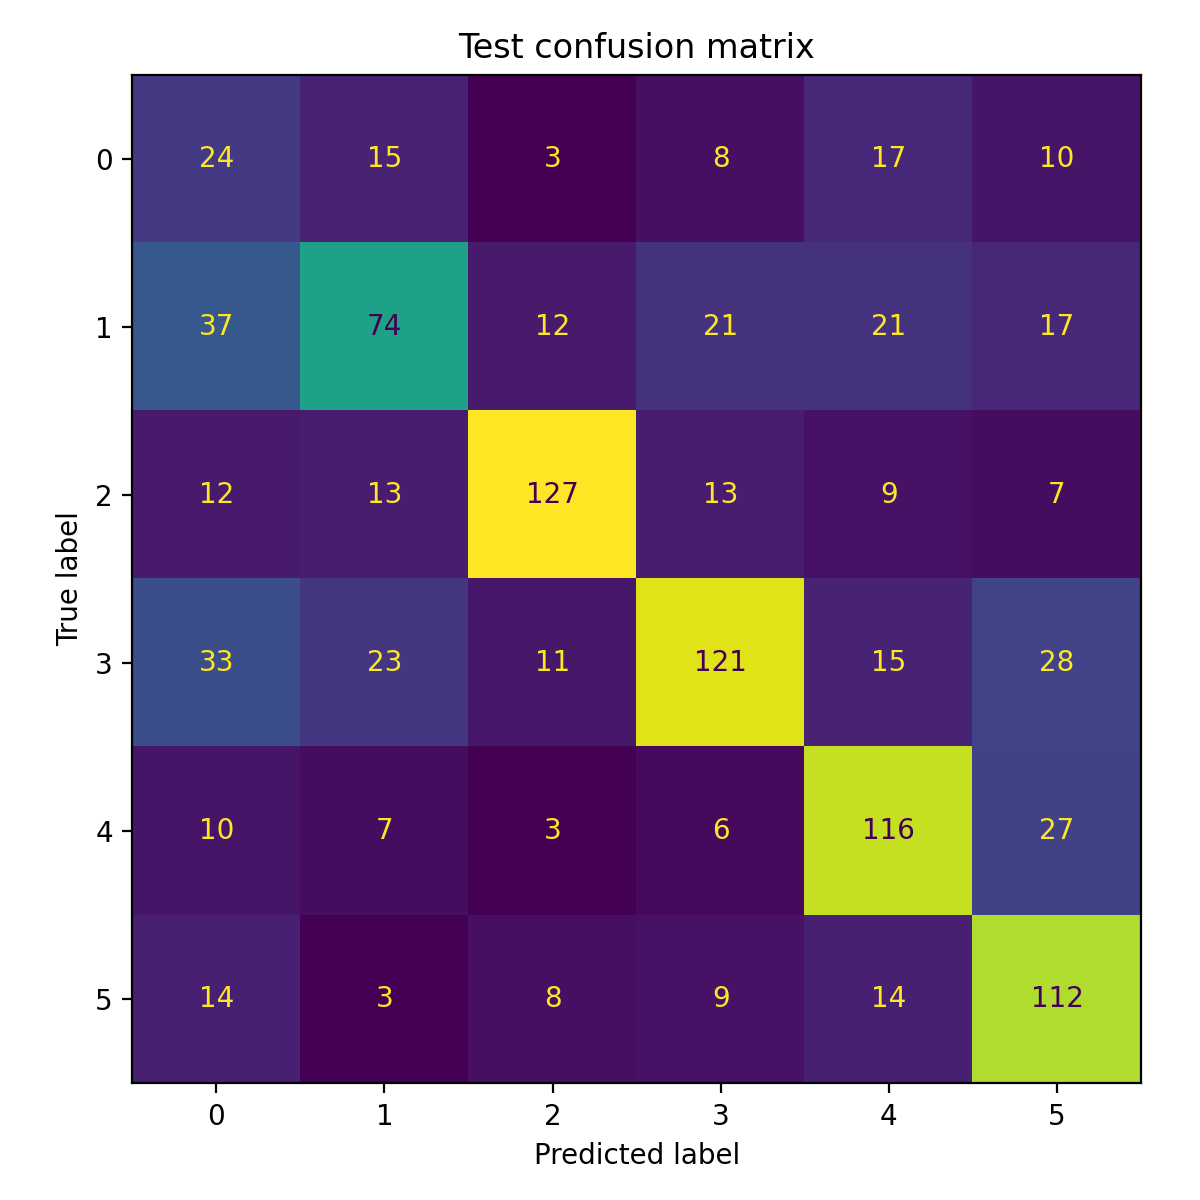
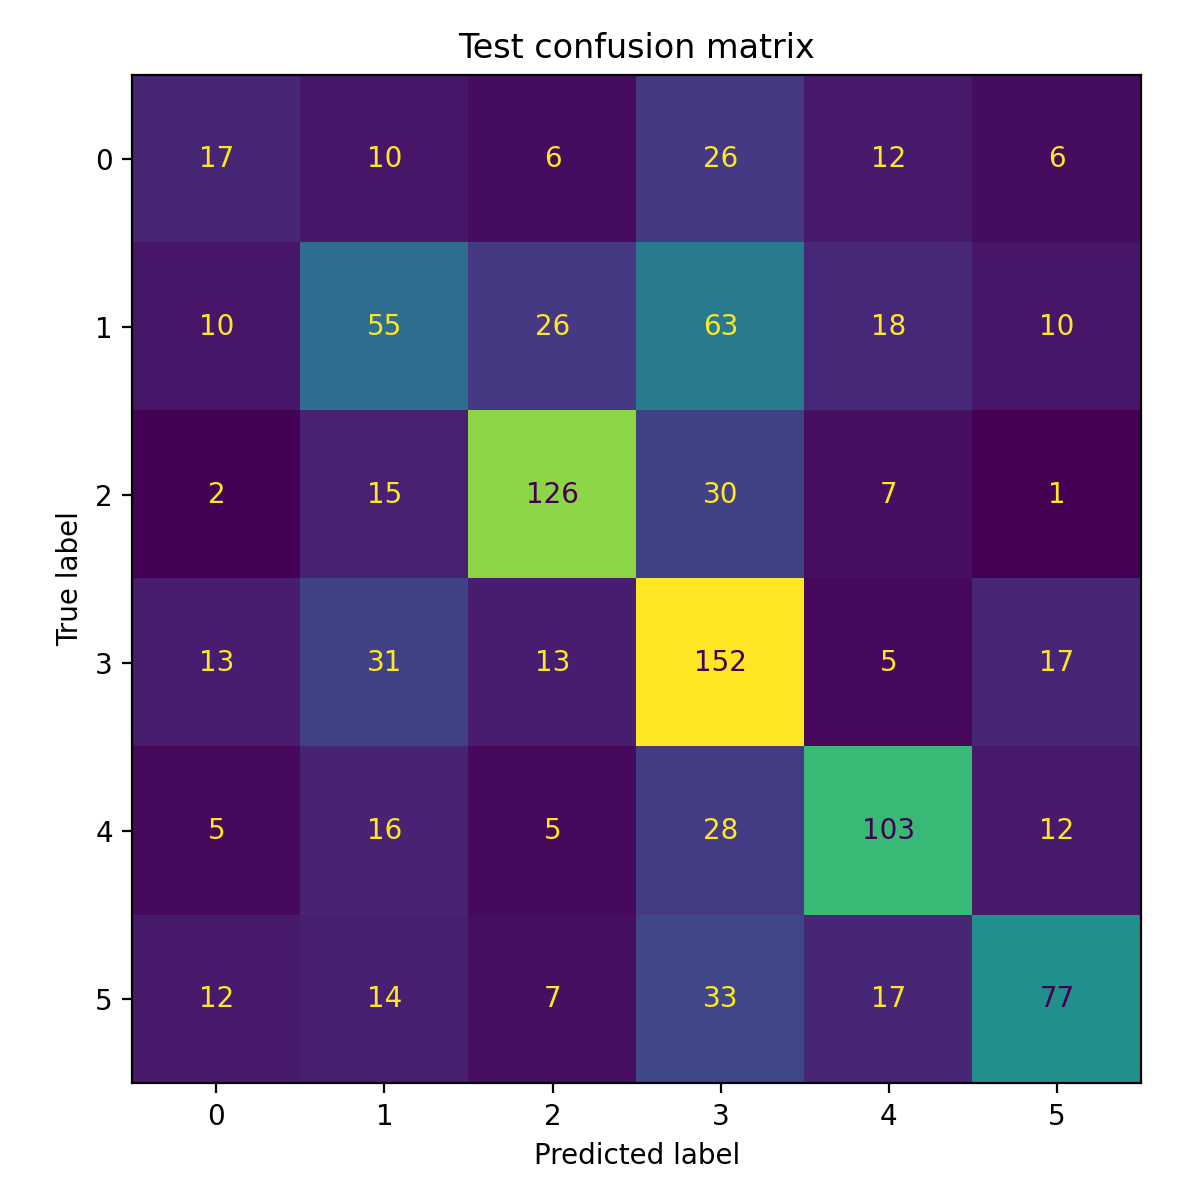
fix

diff --git a/src/evaluation/post_training.py b/src/evaluation/post_training.py
@@ -36,8 +36,8 @@ def load_best_model(checkpoint_path: str, datamodule: GraphDataModule, model_nam
             nclass=graph.num_classes,  # type: ignore
             embedding_dim=128,
             walk_length=40,
-            num_walks=20,
-            window_size=10,
+            num_walks=10,
+            window_size=5,
             w2v_epochs=5,
             classifier_hidden_dim=64,
             lr=0.01,
@@ -73,8 +73,12 @@ def make_post_training_figures(
     outdir = Path(output_dir)
     outdir.mkdir(parents=True, exist_ok=True)
 
-    if data in ["Cora", "Citeseer", "PubMed"]:
-        datamodule = GraphDataModule(name=data, root="data", self_loops=True)
+    if data in {"Cora", "Citeseer", "PubMed"}:
+        # note: no self-loops for DeepWalk, as it is based on random walks and not message passing
+        if model_name.lower() == "deepwalk":
+            datamodule = GraphDataModule(name=data, root="data", self_loops=False)
+        else:
+            datamodule = GraphDataModule(name=data, root="data", self_loops=True)
     else:
         raise ValueError(f"Unsupported dataset: {data}. Supported datasets are 'Cora', 'Citeseer', and 'PubMed'.")
 
@@ -147,10 +151,10 @@ def make_post_training_figures(
 
 
 if __name__ == "__main__":
-    checkpoint_path = "outputs/checkpoints/best-gcn-PubMed-epoch=89-val_acc=0.7780.ckpt"
+    checkpoint_path = "outputs/checkpoints/best-deepwalk-PubMed-epoch=11-val_acc=0.7480.ckpt"
     make_post_training_figures(
         checkpoint_path,
-        output_dir="outputs/figures/gcn/pubmed",
+        output_dir="outputs/figures/deepwalk/pubmed",
         data="PubMed",
-        model_name="gcn",
+        model_name="deepwalk",
     )

diff --git a/src/training/train.py b/src/training/train.py
@@ -18,7 +18,11 @@ def main(data: str = "Cora", model_name: str = "deepwalk") -> None:
     output_dir.mkdir(parents=True, exist_ok=True)
 
     if data in {"Cora", "Citeseer", "PubMed"}:
-        datamodule = GraphDataModule(name=data, root="data", self_loops=True)
+        # note: no self-loops for DeepWalk, as it is based on random walks and not message passing
+        if model_name.lower() == "deepwalk":
+            datamodule = GraphDataModule(name=data, root="data", self_loops=False)
+        else:
+            datamodule = GraphDataModule(name=data, root="data", self_loops=True)
     else:
         raise ValueError(f"Unsupported dataset: {data}. Supported datasets are 'Cora', 'Citeseer', and 'PubMed'.")
 
@@ -43,11 +47,10 @@ def main(data: str = "Cora", model_name: str = "deepwalk") -> None:
         model = LitDeepWalk(
             num_nodes=graph.num_nodes,  # type: ignore
             nclass=graph.num_classes,  # type: ignore
-            num_features=graph.num_features,  # type: ignore
             embedding_dim=128,
             walk_length=40,
-            num_walks=20,
-            window_size=10,
+            num_walks=10,
+            window_size=5,
             w2v_epochs=5,
             classifier_hidden_dim=64,
             lr=0.01,
@@ -105,4 +108,4 @@ def main(data: str = "Cora", model_name: str = "deepwalk") -> None:
 
 
 if __name__ == "__main__":
-    main(data="PubMed", model_name="gcn")
+    main(data="PubMed", model_name="deepwalk")

diff --git a/src/lightning/deepwalk_module.py b/src/lightning/deepwalk_module.py
@@ -13,7 +13,6 @@ class LitDeepWalk(pl.LightningModule):  # type: ignore
     def __init__(
         self,
         num_nodes: int,
-        num_features: int,
         nclass: int,
         embedding_dim: int = 128,
         walk_length: int = 40,
@@ -32,7 +31,6 @@ class LitDeepWalk(pl.LightningModule):  # type: ignore
 
         self.model = DeepWalk(
             embedding_dim=embedding_dim,
-            num_features=num_features,
             walk_length=walk_length,
             num_walks=num_walks,
             window_size=window_size,
@@ -64,13 +62,8 @@ class LitDeepWalk(pl.LightningModule):  # type: ignore
         if self.embeddings is None:
             raise RuntimeError("Embeddings are not initialized. setup() must run first.")
 
-        graph = self.trainer.datamodule.graph_data
-        dw = self.embeddings[node_indices].to(self.device)
-        feat = graph.x[node_indices].to(self.device)
-        # feat = graph.x.to(self.device)[node_indices]
-        x = torch.cat([dw, feat], dim=1)
-
-        return self.model(x)
+        dw = self.embeddings.to(self.device)[node_indices]
+        return self.model(dw)
 
     def _shared_step(self, stage: str) -> dict[str, torch.Tensor]:
         """Shared logic for train/val/test."""

diff --git a/src/models/deepwalk.py b/src/models/deepwalk.py
@@ -13,7 +13,6 @@ class DeepWalk(nn.Module):
 
     def __init__(
         self,
-        num_features: int,
         embedding_dim: int = 128,
         walk_length: int = 40,
         num_walks: int = 10,
@@ -36,12 +35,11 @@ class DeepWalk(nn.Module):
         self.nclass = nclass
         self.workers = workers
         self.seed = seed
-        self.num_features = num_features
 
         self.classifier = nn.Sequential(
-            nn.Linear(embedding_dim + num_features, classifier_hidden_dim),
+            nn.Linear(embedding_dim , classifier_hidden_dim),
             nn.ReLU(),
-            nn.Dropout(0.5),
+            nn.Dropout(0.2),
             nn.Linear(classifier_hidden_dim, nclass),
         )
 
@@ -98,8 +96,9 @@ class DeepWalk(nn.Module):
             vector_size=self.embedding_dim,
             window=self.window_size,
             min_count=0,
-            sg=1,
-            hs=1,
+            sg=1, # Skip-gram model
+            hs=0, # Negative sampling
+            negative=5, # Number of negative samples
             workers=self.workers,
             epochs=self.w2v_epochs,
             seed=self.seed,

diff --git a/src/models/gcn.py b/src/models/gcn.py
@@ -32,11 +32,12 @@ class GCNLayer(nn.Module):
         device = x.device
 
         adj = torch.zeros((num_nodes, num_nodes), device=device, dtype=x.dtype)
-        adj[edge_index[0], edge_index[1]] = 1.0
+        adj[edge_index[0], edge_index[1]] = 1.0 
 
-        # add self-loops
-        adj = adj + torch.eye(num_nodes, device=device, dtype=x.dtype)
-
+        # add self-loops if not already present
+        self_loops=torch.arange(num_nodes, device=device)
+        adj[self_loops, self_loops] = 1.0  # Ensure self-loops are included 
+        
         deg = adj.sum(dim=1)
         deg_inv_sqrt = deg.pow(-0.5)  # Compute D^(-1/2)
         deg_inv_sqrt[torch.isinf(deg_inv_sqrt)] = 0.0
